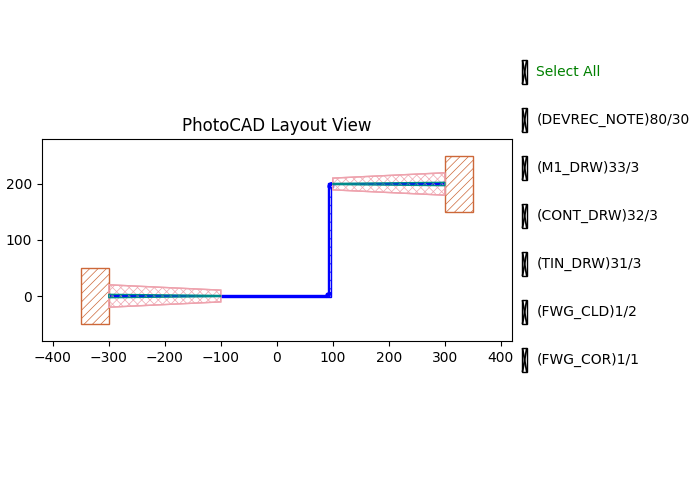
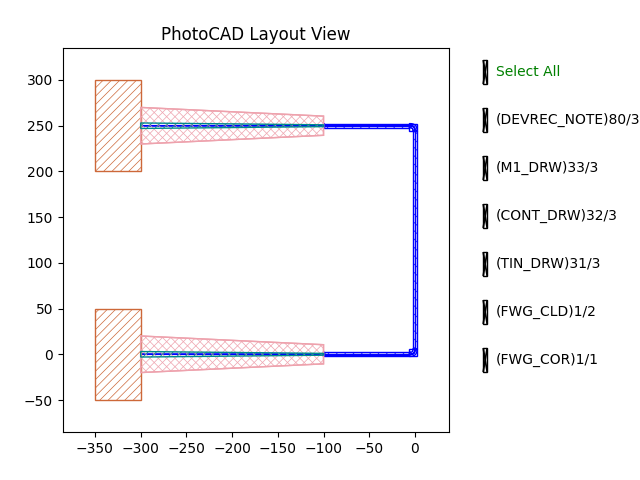
Update EdgeCoupler1550

diff --git a/docs/en/03_components/comp_ec.rst b/docs/en/03_components/comp_ec.rst
@@ -20,7 +20,7 @@ We recommend to follow the folder structure as follows:
 
      * cell name: The cell name indicated in the GDS file.
 
-     * layers: First point out all the layers in the GDS file, and assign them to the layers in your PDK. User are allowed to link the layers to PDK layers e.g., ``TECH.LAYER.FWG_COR``, ignore the layer in the GDS file e.g., "_IGNORE_", or directly use the layer ID in the PDK e.g., "80/30".
+     * layers: First point out all the layers in the GDS file, and assign them to the layers in your PDK. User are allowed to link the layers to PDK layers e.g., ``TECH.LAYER.FWG_COR``, ignore the layer in the GDS file e.g., "_IGNORE_", or directly use the layer ID in the PDK e.g., "80/30". If the layers in the imported GDS already match the current PDK layer definitions, you can directly use the statement ``"*": "<AUTO>"`` to map layer numbers automatically.
 
      * ports:
 
@@ -118,6 +118,9 @@ We recommend to follow the folder structure as follows:
                     },
 
 * ``edge_coupler_1550.py``:  Wraps the GDS-based device as a PhotoCAD device that can be instantiated and used in a photonic circuit.
+      * ``black_box=True``: This prevents suffixes such as _x1, _x2, and _x3 from being added when placing BlackBox Cells with mirrored, rotated, translated and other operations via FAB PDK. It satisfies the FAB's requirement for fixed BlackBox Cell names and simplifying the GDS export process.
+
+    .. image:: image/edge_coupler_1550_bb.png
 
 .. code-block:: python
 
@@ -153,15 +156,13 @@ Instantiate and connect the imported cells
 
 Once the device has been packaged, it can be instantiated and called just like other PDK cells. Since the optical port op_0 was defined in the JSON file, it can be accessed directly from the instantiated device. The two edge couplers can be connected using PhotoCAD's LinkBetween function:
 
-Once the cell has been packaged, it can be instantiated and called just like other PDK cells. For example, two edge couplers can be instantiated, placed at different positions, and connected with wires:
-
 .. code-block:: python
 
     from fnpcell import all as fp
     from gpdk.technology import get_technology
     from gpdk.components.edge_coupler_1550.edge_coupler_1550 import Edge_Coupler_1550
 
-    class Test_Edge_Coupler(fp.PCell):
+    class Edge_Coupler_link(fp.PCell):
         def build(self):
             insts, elems, ports = super().build()
             TECH = get_technology()
@@ -170,10 +171,11 @@ Once the cell has been packaged, it can be instantiated and called just like oth
 
             ec_1 = ec.translated(-300, 0)
             insts += ec_1
-            ec_2 = ec.rotated(degrees=180).translated(300, 200)
+            ec_2 = ec.translated(-300, 250)
             insts += ec_2
 
-            link_ec = fp.LinkBetween(ec_1["op_0"], ec_2["op_0"])
+            link_ec = fp.LinkBetween(ec_1["op_0"], ec_2["op_0"],
+                                     start_factory = 100)
             insts += link_ec
 
             return insts, elems, ports
@@ -185,10 +187,19 @@ Once the cell has been packaged, it can be instantiated and called just like oth
         library = fp.Library()
         # =============================================================
 
-        library += Test_Edge_Coupler()
+        library += Edge_Coupler_link()
         # =============================================================
         fp.export_gds(library, file=output_file)
         fp.plot(library)
 
 
 .. image:: image/edge_coupler_1550_3.png
+
+Common Issues and Considerations
+---------------------------------------------
+
+* **JSON Configuration**: Make sure that cell_name, port types, port orientations, and port dimensions are correctly configured. Pay particular attention to the operating wavelength band.
+
+* **Python File Validation**: Ensure that every .py file under the components directory can run successfully without errors.
+
+* **Path Configuration**: Check that ``json_path`` and ``library_path`` in the .py file point to the correct files and directories. Make sure that the paths and file names are consistent with the actual file structure.
